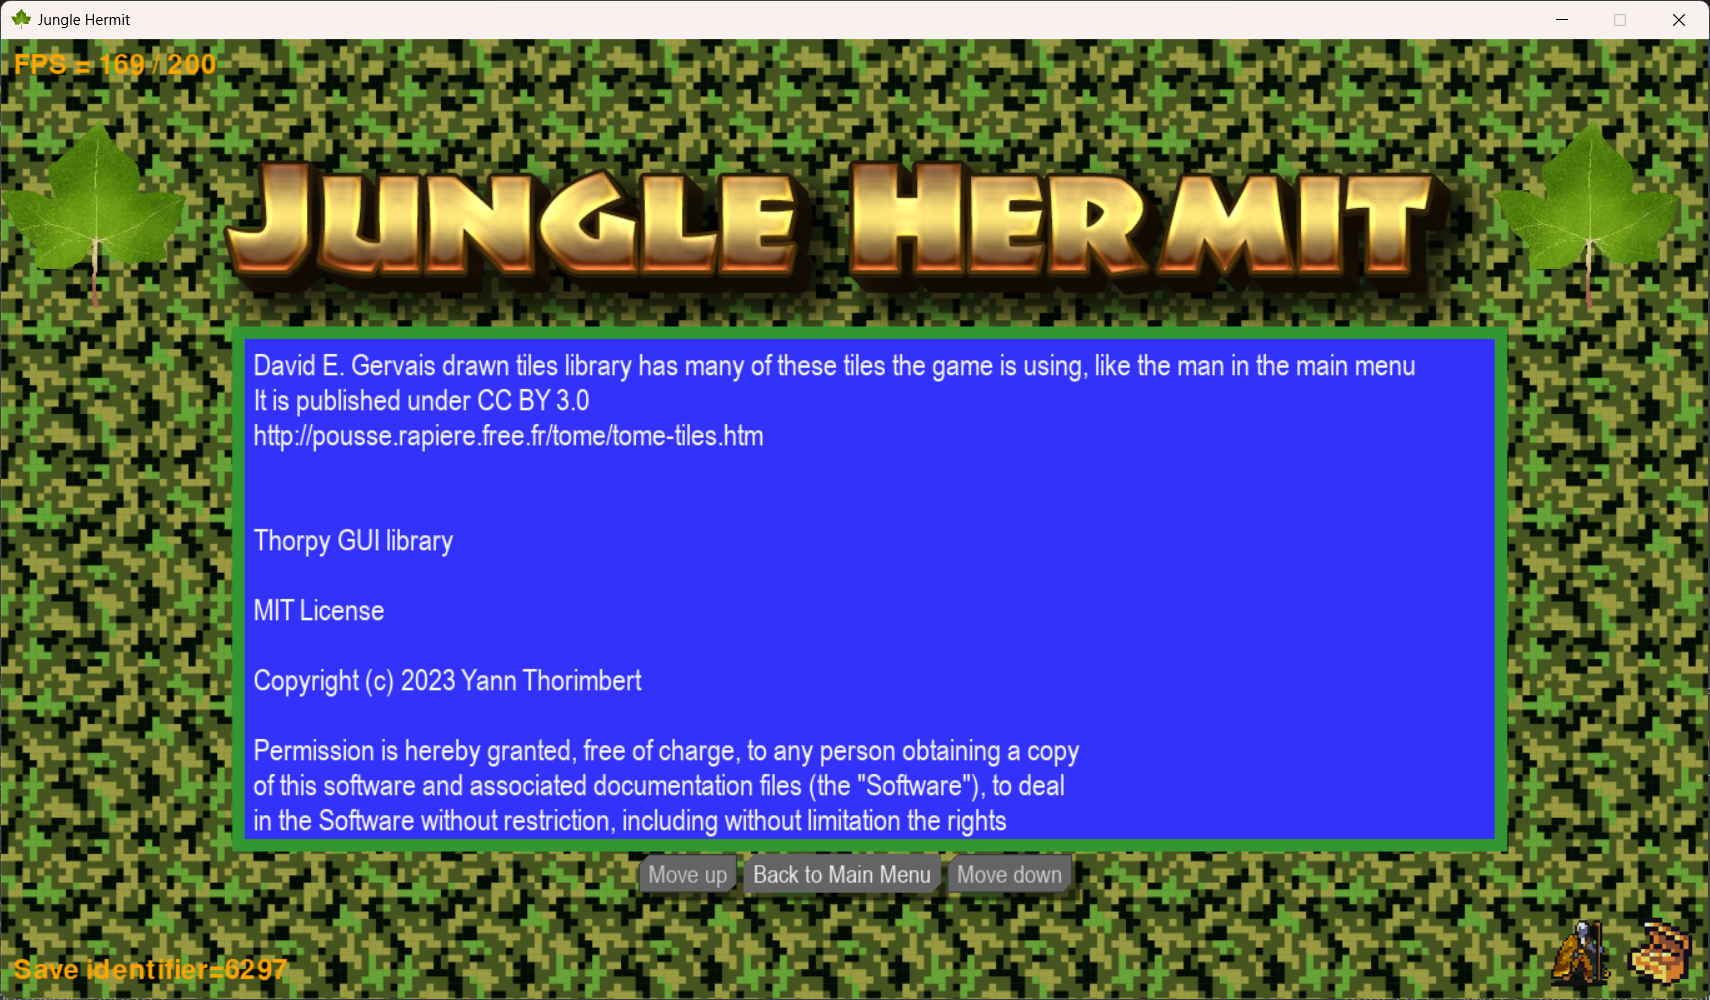
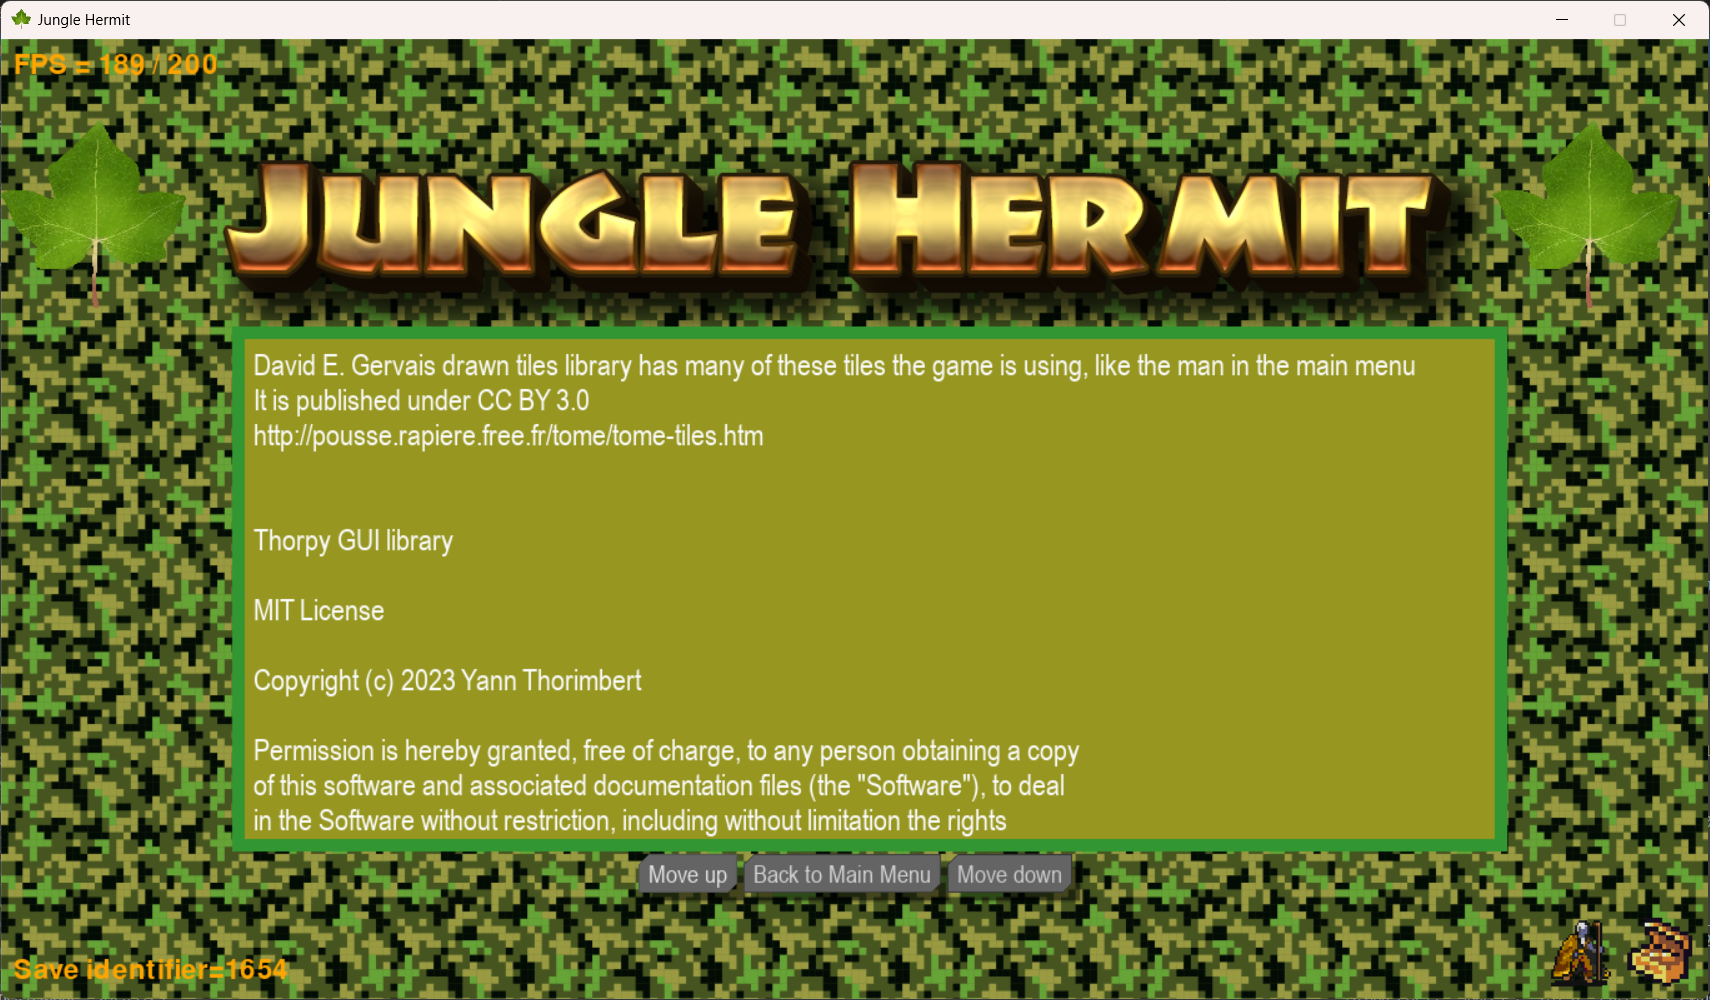
new screenshot

diff --git a/jungle.py b/jungle.py
@@ -877,7 +877,7 @@ while running:
     elif leaf == "options":
         #screen.fill((150,0,0))
         pygame.draw.rect(screen, (50,150,50), (screen_width/2-625/2-icon_main_width-25-10, screen_height*0.085+icon_main_height+25-10,1000+20,400+20))
-        pygame.draw.rect(screen, (50,50,250), (screen_width/2-625/2-icon_main_width-25, screen_height*0.085+icon_main_height+25,1000,400))
+        pygame.draw.rect(screen, (150,150,33), (screen_width/2-625/2-icon_main_width-25, screen_height*0.085+icon_main_height+25,1000,400))
         #screen_width/2-logo_width/2-icon_main_width-25, screen_height*0.085+icon_main_height+25
     elif leaf == "new_game":
         pygame.draw.rect(screen, (150,75,0), (screen_width/2-625/2-icon_main_width-45+75-10, screen_height*0.085+icon_main_height+25-10-10,875+20,400+20+20))
